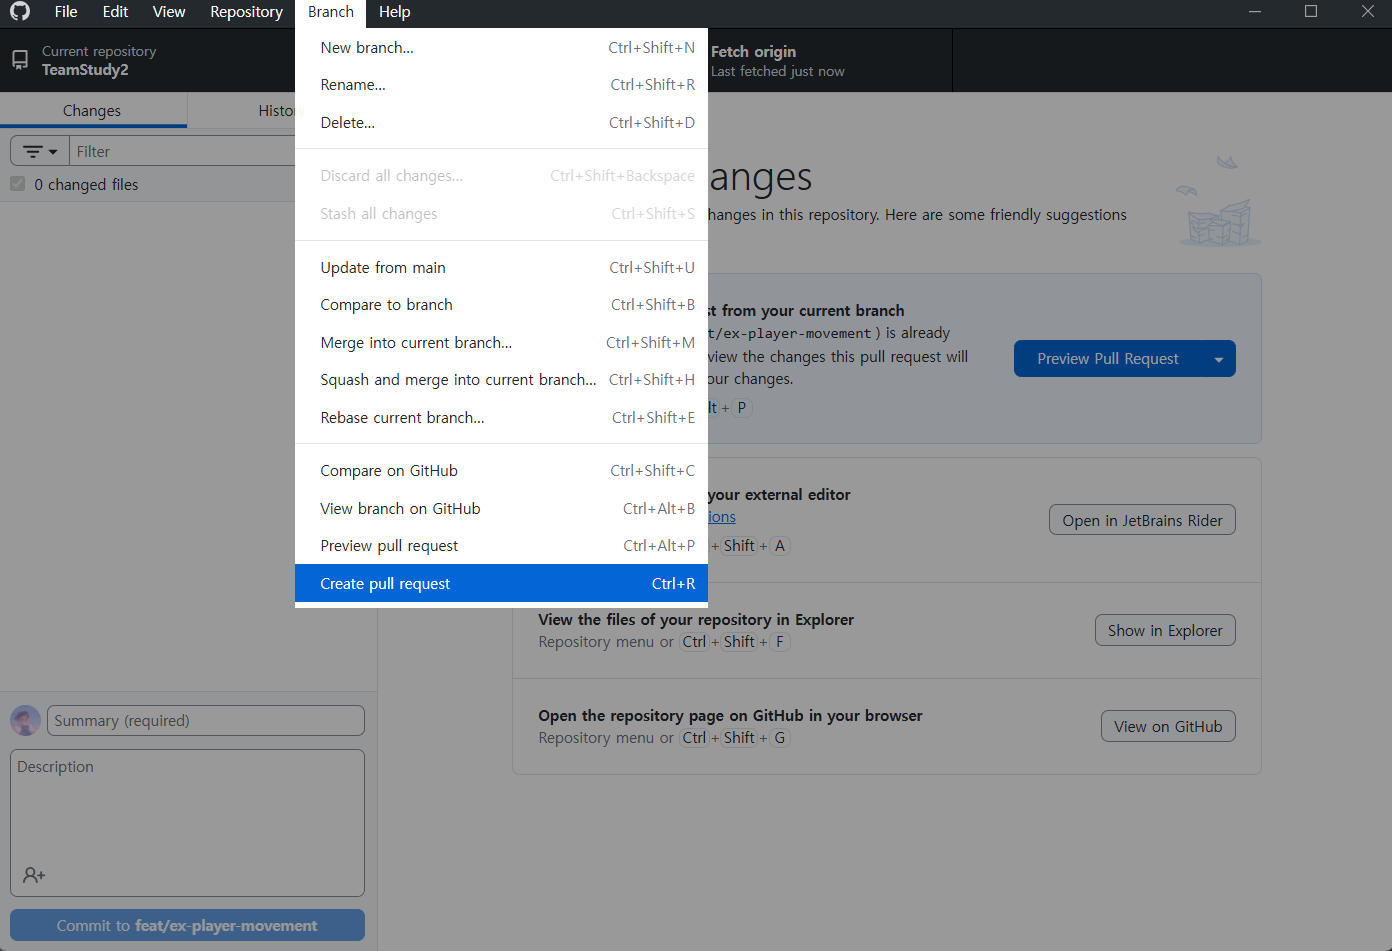
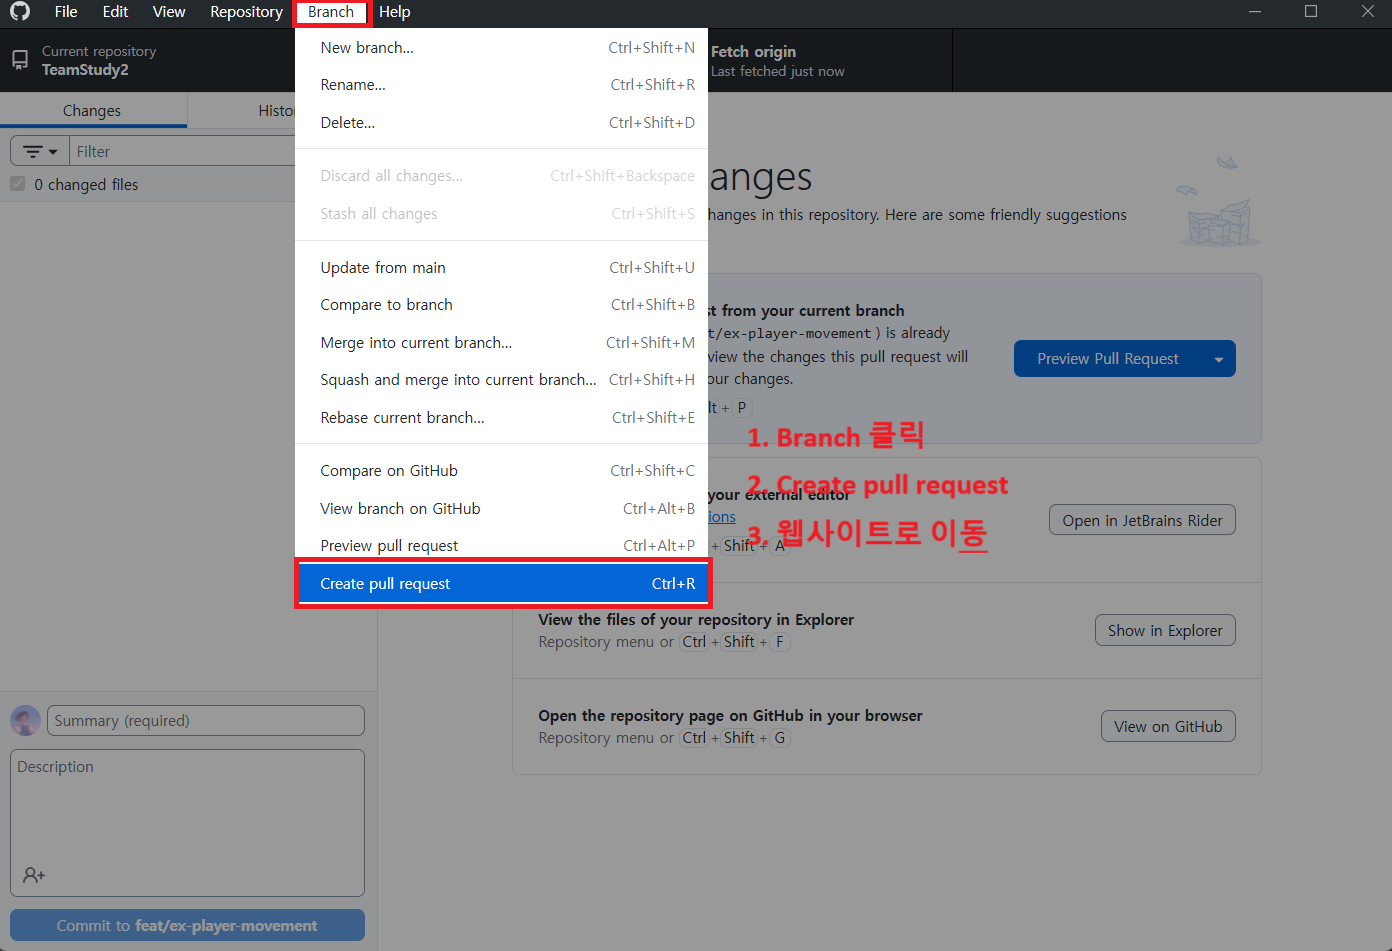
temp

diff --git a/깃을 사용해 봅시다.md b/깃을 사용해 봅시다.md
@@ -139,7 +139,9 @@
    1. pull request를 클릭합니다.
    2. compare & pull request
    <img src="Temp/pr2.png" width="600" height="500"/><br>
-5. <U>Create pull request</U>를 눌러 pull request를 요청하면 마무리됩니다.
+5. ***제일 중요!! 상단 pull 경로가 develop <- 내 브랜치 인지 확인!!!!***
+   <img src="Temp/pr3.png" width="600" height="500"/><br>
+6. <U>Create pull request</U>를 눌러 pull request를 요청하면 마무리됩니다.
 
 >[!NOTE]
 > Merge는 각 팀원간 코드 리뷰를 통해서 무결성 검사후 진행합니다.  
